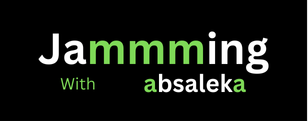
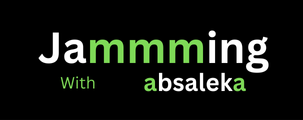
heading

diff --git a/src/components/App/App.css b/src/components/App/App.css
@@ -15,6 +15,6 @@
 }
 img {
   width: 250px;
-  height: 100px;
-  margin-right: -2px;
+  height: 80px;
+  justify-self: center;
 }
